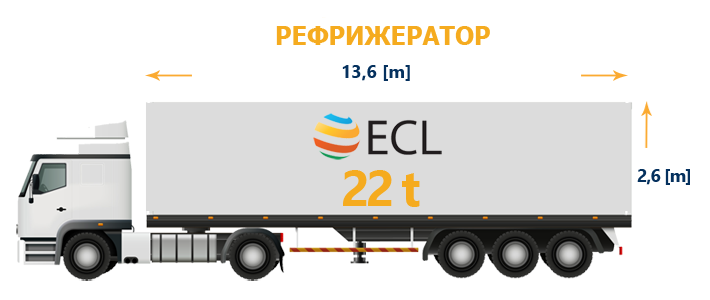
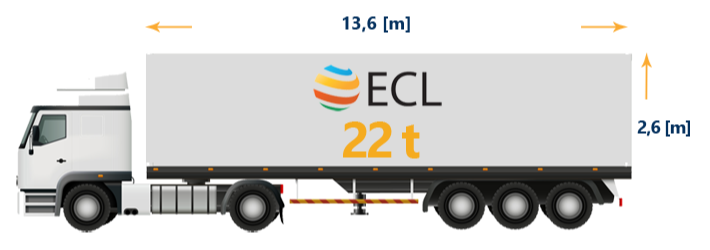
auto

diff --git a/services.html b/services.html
@@ -345,34 +345,44 @@
         </div>
         <div class="row clearfix">
             <div class="row align-items-center">
-                <div class="col-lg-6 col-md-12 col-sm-12">
-                    <img src="./assets/images/auto/auto1.png" alt="" />
+                <div class="col-lg-6 col-md-6 col-sm-12">
+                  <h2 class="">ТЕНТ</h2>
+                    <img src="./assets/images/auto/plandeka-ua.png" alt="" />
                 </div>
-                <div class="col-lg-6 col-md-12 col-sm-12">
-                  <img src="./assets/images/auto/auto2.png" alt="" />
+                <div class="col-lg-6 col-md-6 col-sm-12">
+                  <h2 class="">БУС</h2>
+                  <img src="./assets/images/auto/bus-ua.png" alt="" />
                 </div>
               </div>
               <div class="row col-md-12 align-items-center">
-                  <div class="col-lg-6 col-md-4 col-sm-12">
-                      <img src="./assets/images/auto/auto3.png" alt="" />
+                  <div class="col-lg-6 col-md-6 col-sm-12">
+                    <h2 class="">РЕФРИЖЕРАТОР</h2>
+                      <img src="./assets/images/auto/chlodnie-ua.png" alt="" />
                   </div>
-                  <div class="col-lg-6 col-md-8 col-sm-12">
+                  <div class="col-lg-6 col-md-6 col-sm-12">
+                    <h2 class="">СОЛО</h2>
                     <img src="./assets/images/auto/auto4.png" alt="" />
                   </div>
               </div>
                 <div class="row col-md-12 align-items-center">
-                    <div class="col-lg-6 col-md-4 col-sm-12">
+                    <div class="col-lg-6 col-md-12 col-sm-12">
+                      <h2 class="">МЕГА</h2>
                         <img src="./assets/images/auto/auto5.png" alt="" />
                     </div>
-                    <div class="col-lg-6 col-md-8 col-sm-12">
+                    <div class="col-lg-6 col-md-12 col-sm-12">
+                      <h2 class="">ІНШІ СОЛО</h2>
                     <img src="./assets/images/auto/auto6.png" alt="" />
                     </div>
                 </div>
                 <div class="row col-md-12">
-                    <div class="col-lg-12 col-md-4 col-sm-12">
+                    <div class="col-lg-6 col-md-6 col-sm-12">
+                      <h2 class="">СЦЕПКА 120 м3 (ПРИЧІП)</h2>
                         <img src="./assets/images/auto/auto7.png" alt="" />
                     </div>
-
+                    <div class="col-lg-6 col-md-6 col-sm-12">
+                      <h2 class="">Сцепка 120 м3 (Причіп)</h2>
+                      <img src="./assets/images/auto/auto8.png" alt="" />
+                      </div>
                 </div>
             </div>
         </div>
